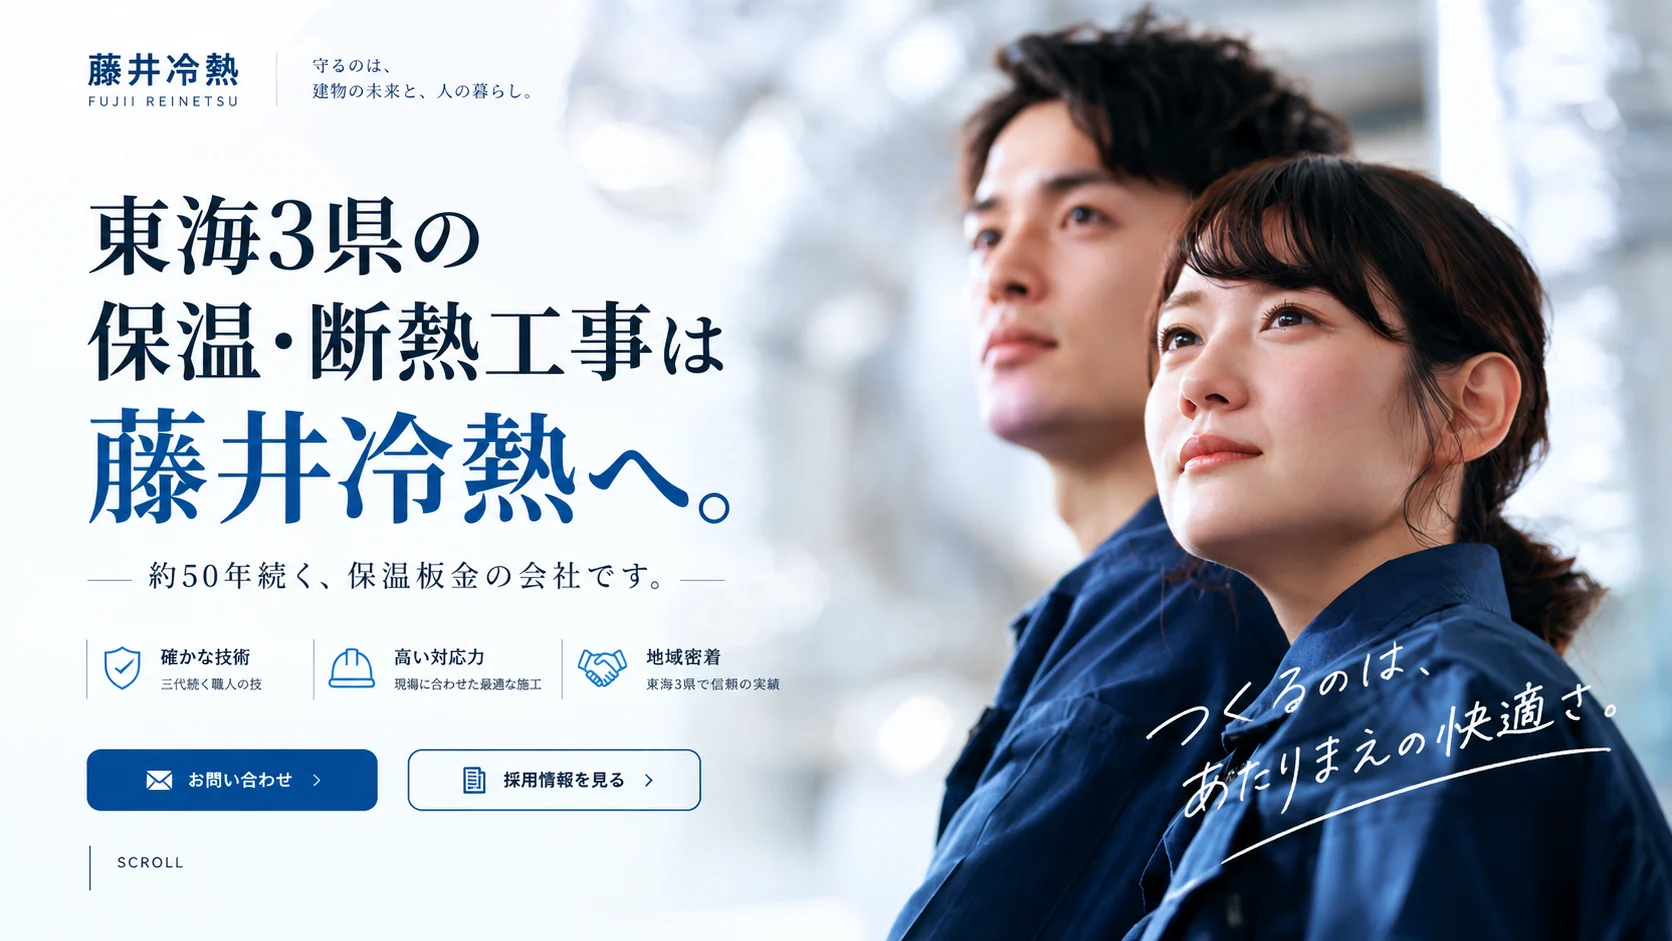
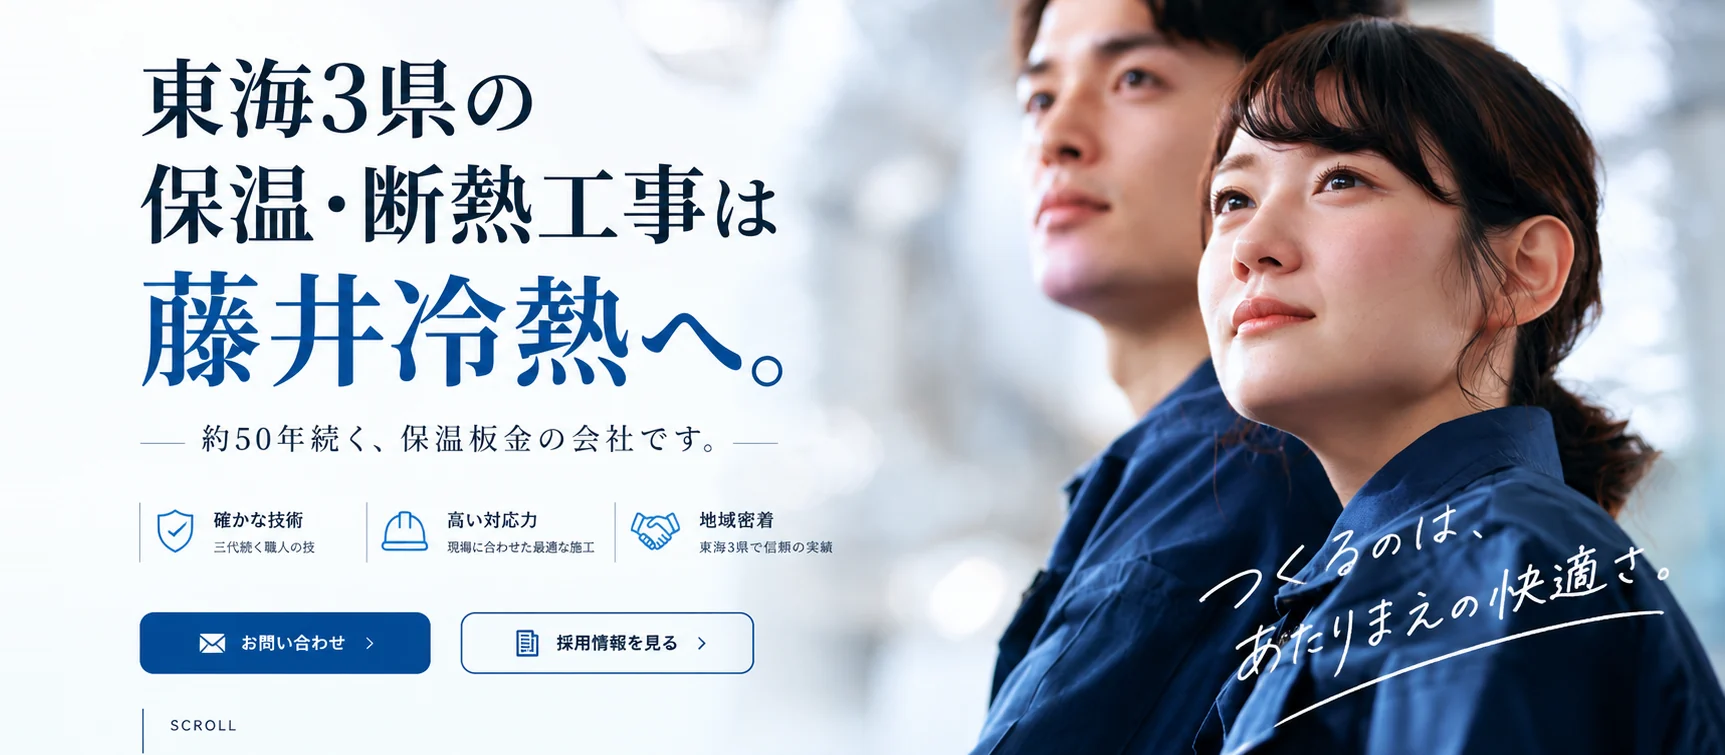
本文の幅をヒーローに合わせる
ヒーロー画像の中の見出しは画像幅の5.44%から始まるのに、
本文は1200px中央寄せで左端が120px。1440pxで42pxずれていた。

--inner を 1200px → 1284px に広げ、1440pxで左端を78pxに揃える。
.p-intro だけ独自に120pxの余白を持っていたので、
同じ5.44%に変えて、どの幅でも追従するようにした。

diff --git a/css/style.css b/css/style.css
@@ -52,7 +52,7 @@
 	--ff-lt: "Archivo", "Helvetica Neue", Arial, sans-serif;
 	/* 寸法 */
 	--page: 1440px;
-	--inner: 1200px;
+	--inner: 1284px;   /* ヒーロー画像の左余白（幅の5.44%）に本文の左端を合わせる */
 	--inner-wide: 1320px;
 	--head-h: 89px;
 	/* 動き */
@@ -6958,7 +6958,7 @@ h2.p-ceo__name { margin-top: 4px; }
 	   ヘッダー89pxと合わせて画面がヒーローだけで埋まる。
 	   上端を14.6%切って 2.215:1 の帯にする。
 	   切った先にあるのは画像内のロゴ行で、サイトのヘッダーと重複していた。 */
-	aspect-ratio: 1672 / 755;
+	aspect-ratio: 1725 / 755;
 	background: var(--w);
 	overflow: hidden;
 }
@@ -6967,8 +6967,7 @@ h2.p-ceo__name { margin-top: 4px; }
 	display: block;
 	width: 100%;
 	height: 100%;
-	object-fit: cover;
-	object-position: 50% 74%;
+	object-fit: fill;
 }
 
 /* 画像と同じ文言。目には出さないが、DOMには残す */
@@ -6989,8 +6988,8 @@ h2.p-ceo__name { margin-top: 4px; }
    1440pxで実測して 79.7〜87.5% に合わせた。 */
 .p-hero__hit {
 	position: absolute;
-	top: 79.7%;
-	height: 7.8%;
+	top: 80.9%;
+	height: 8.0%;
 	border-radius: 3px;
 }
 
@@ -7002,8 +7001,8 @@ h2.p-ceo__name { margin-top: 4px; }
 	clip-path: inset(50%);
 }
 
-.p-hero__hit--a { left: 5.2%; width: 17.6%; }
-.p-hero__hit--b { left: 24.2%; width: 18.0%; }
+.p-hero__hit--a { left: 8.1%; width: 17.1%; }
+.p-hero__hit--b { left: 26.5%; width: 17.5%; }
 
 /* スマホ用の画像は縦横比も配置も別物なので、当たり判定も別に持つ */
 .p-hero__hit--sa,
@@ -7043,7 +7042,9 @@ h2.p-ceo__name { margin-top: 4px; }
 .p-intro__inner {
 	width: min(var(--page), 100%);
 	margin-inline: auto;
-	padding: clamp(36px, 4vw, 60px) 120px;
+	/* ヒーロー画像の中の見出しは、画像幅の5.44%の位置から始まる。
+	   同じ割合にしておくと、どの画面幅でも左端が揃う。 */
+	padding: clamp(36px, 4vw, 60px) 5.44%;
 }
 
 .p-intro__lead {

diff --git a/index.html b/index.html
@@ -13,7 +13,7 @@
 <script src="js/nav.js?v=53702c8f" defer></script>
 <link rel="icon" href="img/favicon.png" type="image/png">
 <link rel="stylesheet" href="css/reset.css?v=e600d7dc">
-<link rel="stylesheet" href="css/style.css?v=2b823f61">
+<link rel="stylesheet" href="css/style.css?v=d03579ec">
 
 	<link rel="canonical" href="https://fujiiren1996.github.io/fujii-reinetsu/">
 	<meta property="og:type" content="website">
@@ -107,7 +107,7 @@
 <main>
 
 <section class="p-hero">
-	<picture><source media="(max-width: 768px)" srcset="img/photos/hero-top-sp.webp" width="1254" height="1254"><img class="p-hero__art" src="img/photos/hero-top.webp" width="1672" height="941" alt="東海3県の保温・断熱工事は藤井冷熱へ。約50年続く、保温板金の会社です。確かな技術／高い対応力／地域密着" fetchpriority="high" decoding="async"></picture>
+	<picture><source media="(max-width: 768px)" srcset="img/photos/hero-top-sp.webp" width="1254" height="1254"><img class="p-hero__art" src="img/photos/hero-top.webp" width="1725" height="755" alt="東海3県の保温・断熱工事は藤井冷熱へ。約50年続く、保温板金の会社です。確かな技術／高い対応力／地域密着" fetchpriority="high" decoding="async"></picture>
 	<div class="p-hero__txt">
 		<p>Insulation ／ Cladding ／ Sheet metal</p>
 		<h1>東海3県の保温・断熱工事は藤井冷熱へ。</h1>

diff --git a/recruit-about.html b/recruit-about.html
@@ -13,7 +13,7 @@
 <script>document.documentElement.classList.add('js');</script>
 <script src="js/nav.js?v=53702c8f" defer></script>
 <link rel="stylesheet" href="css/reset.css?v=e600d7dc">
-<link rel="stylesheet" href="css/style.css?v=2b823f61">
+<link rel="stylesheet" href="css/style.css?v=d03579ec">
 
 	<link rel="canonical" href="https://fujiiren1996.github.io/fujii-reinetsu/recruit-about.html">
 	<meta property="og:type" content="article">

diff --git a/recruit-work.html b/recruit-work.html
@@ -13,7 +13,7 @@
 <script>document.documentElement.classList.add('js');</script>
 <script src="js/nav.js?v=53702c8f" defer></script>
 <link rel="stylesheet" href="css/reset.css?v=e600d7dc">
-<link rel="stylesheet" href="css/style.css?v=2b823f61">
+<link rel="stylesheet" href="css/style.css?v=d03579ec">
 
 	<link rel="canonical" href="https://fujiiren1996.github.io/fujii-reinetsu/recruit-work.html">
 	<meta property="og:type" content="article">

diff --git a/recruit-faq.html b/recruit-faq.html
@@ -13,7 +13,7 @@
 <script>document.documentElement.classList.add('js');</script>
 <script src="js/nav.js?v=53702c8f" defer></script>
 <link rel="stylesheet" href="css/reset.css?v=e600d7dc">
-<link rel="stylesheet" href="css/style.css?v=2b823f61">
+<link rel="stylesheet" href="css/style.css?v=d03579ec">
 
 	<link rel="canonical" href="https://fujiiren1996.github.io/fujii-reinetsu/recruit-faq.html">
 	<meta property="og:type" content="article">

diff --git a/recruit-job.html b/recruit-job.html
@@ -13,7 +13,7 @@
 <script>document.documentElement.classList.add('js');</script>
 <script src="js/nav.js?v=53702c8f" defer></script>
 <link rel="stylesheet" href="css/reset.css?v=e600d7dc">
-<link rel="stylesheet" href="css/style.css?v=2b823f61">
+<link rel="stylesheet" href="css/style.css?v=d03579ec">
 
 	<link rel="canonical" href="https://fujiiren1996.github.io/fujii-reinetsu/recruit-job.html">
 	<meta property="og:type" content="article">

diff --git a/recruit.html b/recruit.html
@@ -13,7 +13,7 @@
 <script>document.documentElement.classList.add('js');</script>
 <script src="js/nav.js?v=53702c8f" defer></script>
 <link rel="stylesheet" href="css/reset.css?v=e600d7dc">
-<link rel="stylesheet" href="css/style.css?v=2b823f61">
+<link rel="stylesheet" href="css/style.css?v=d03579ec">
 
 	<link rel="canonical" href="https://fujiiren1996.github.io/fujii-reinetsu/recruit.html">
 	<meta property="og:type" content="article">
